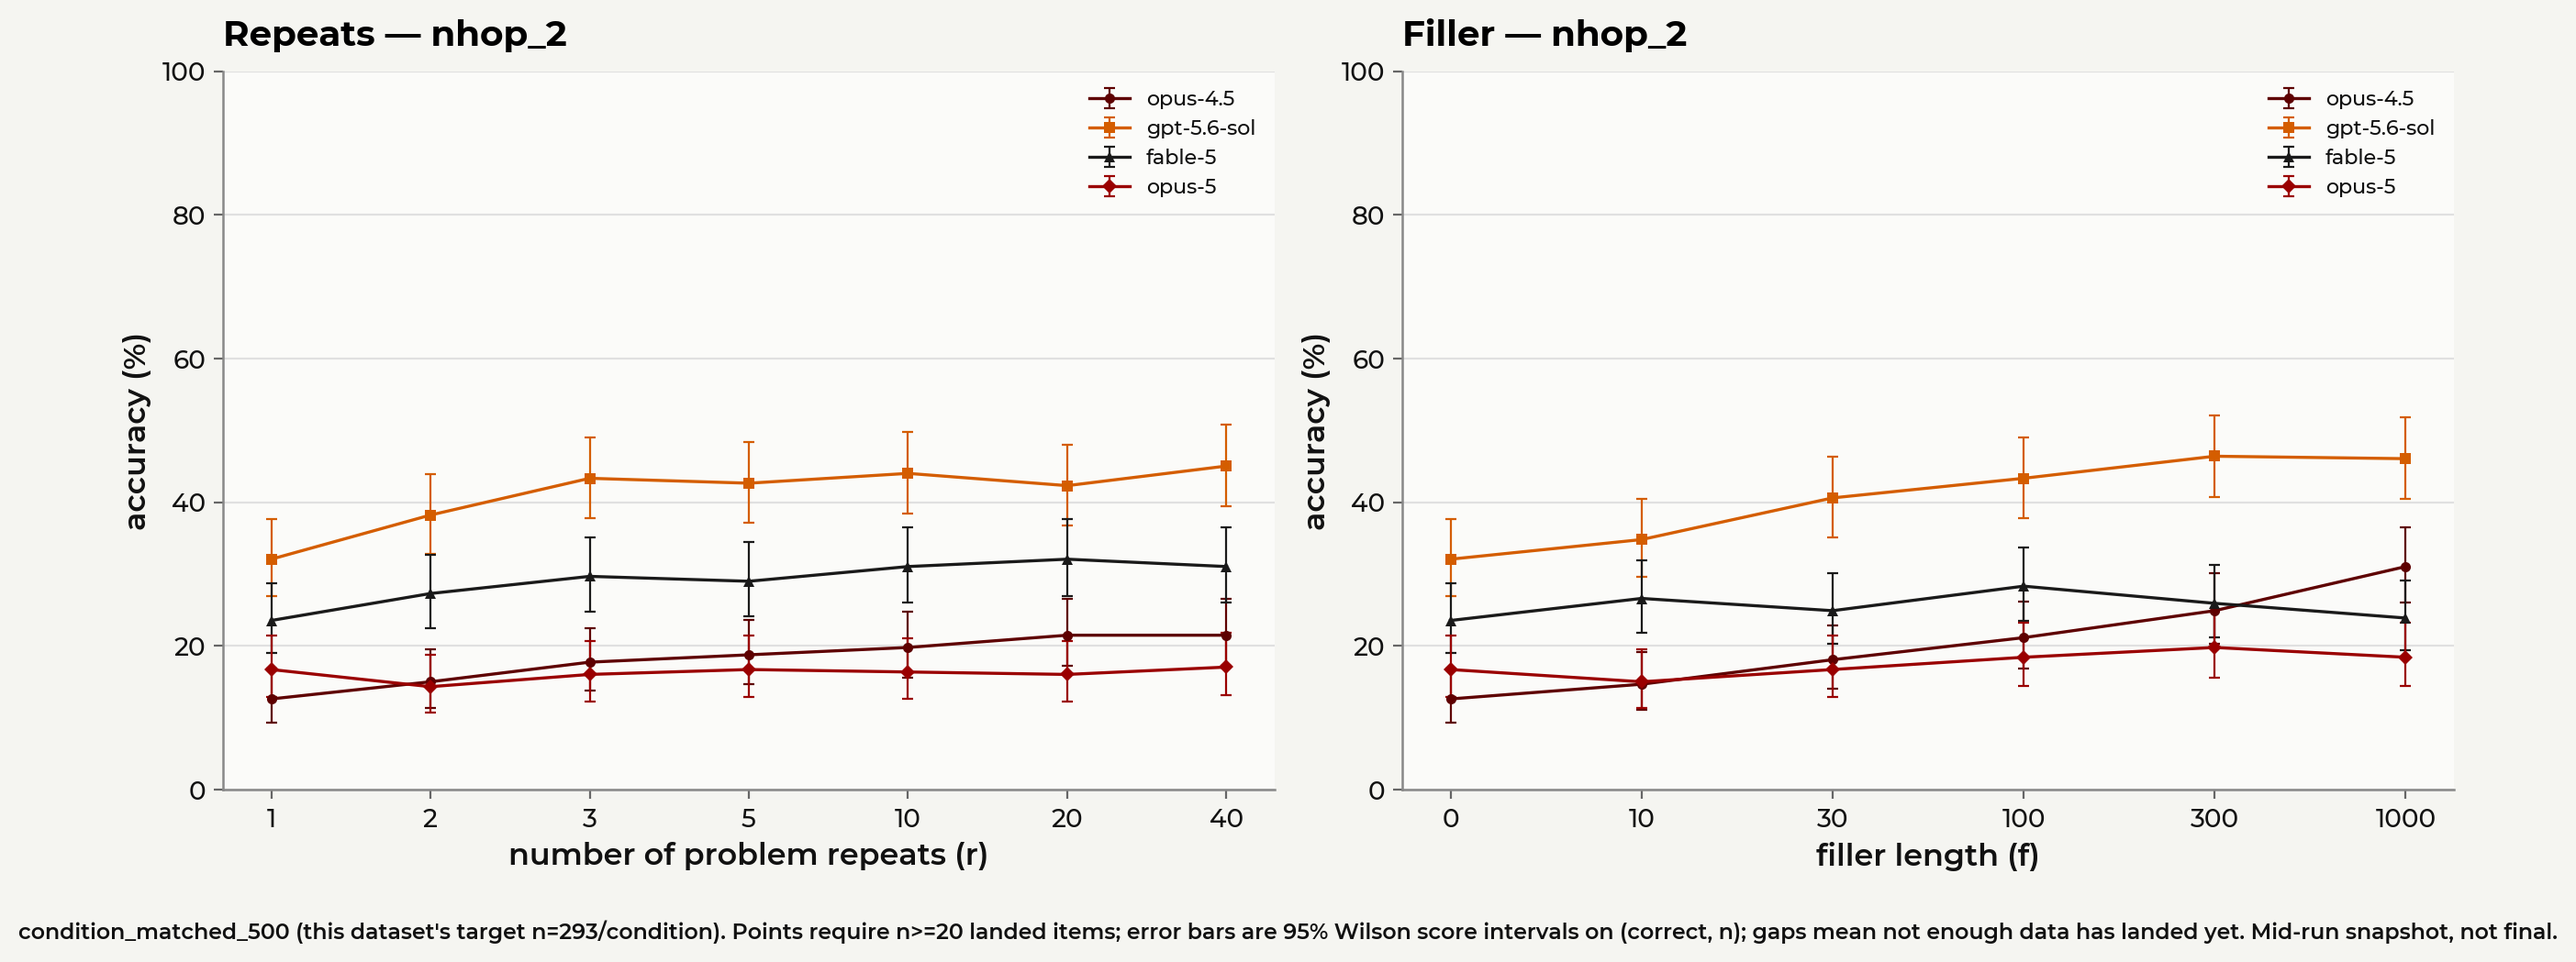
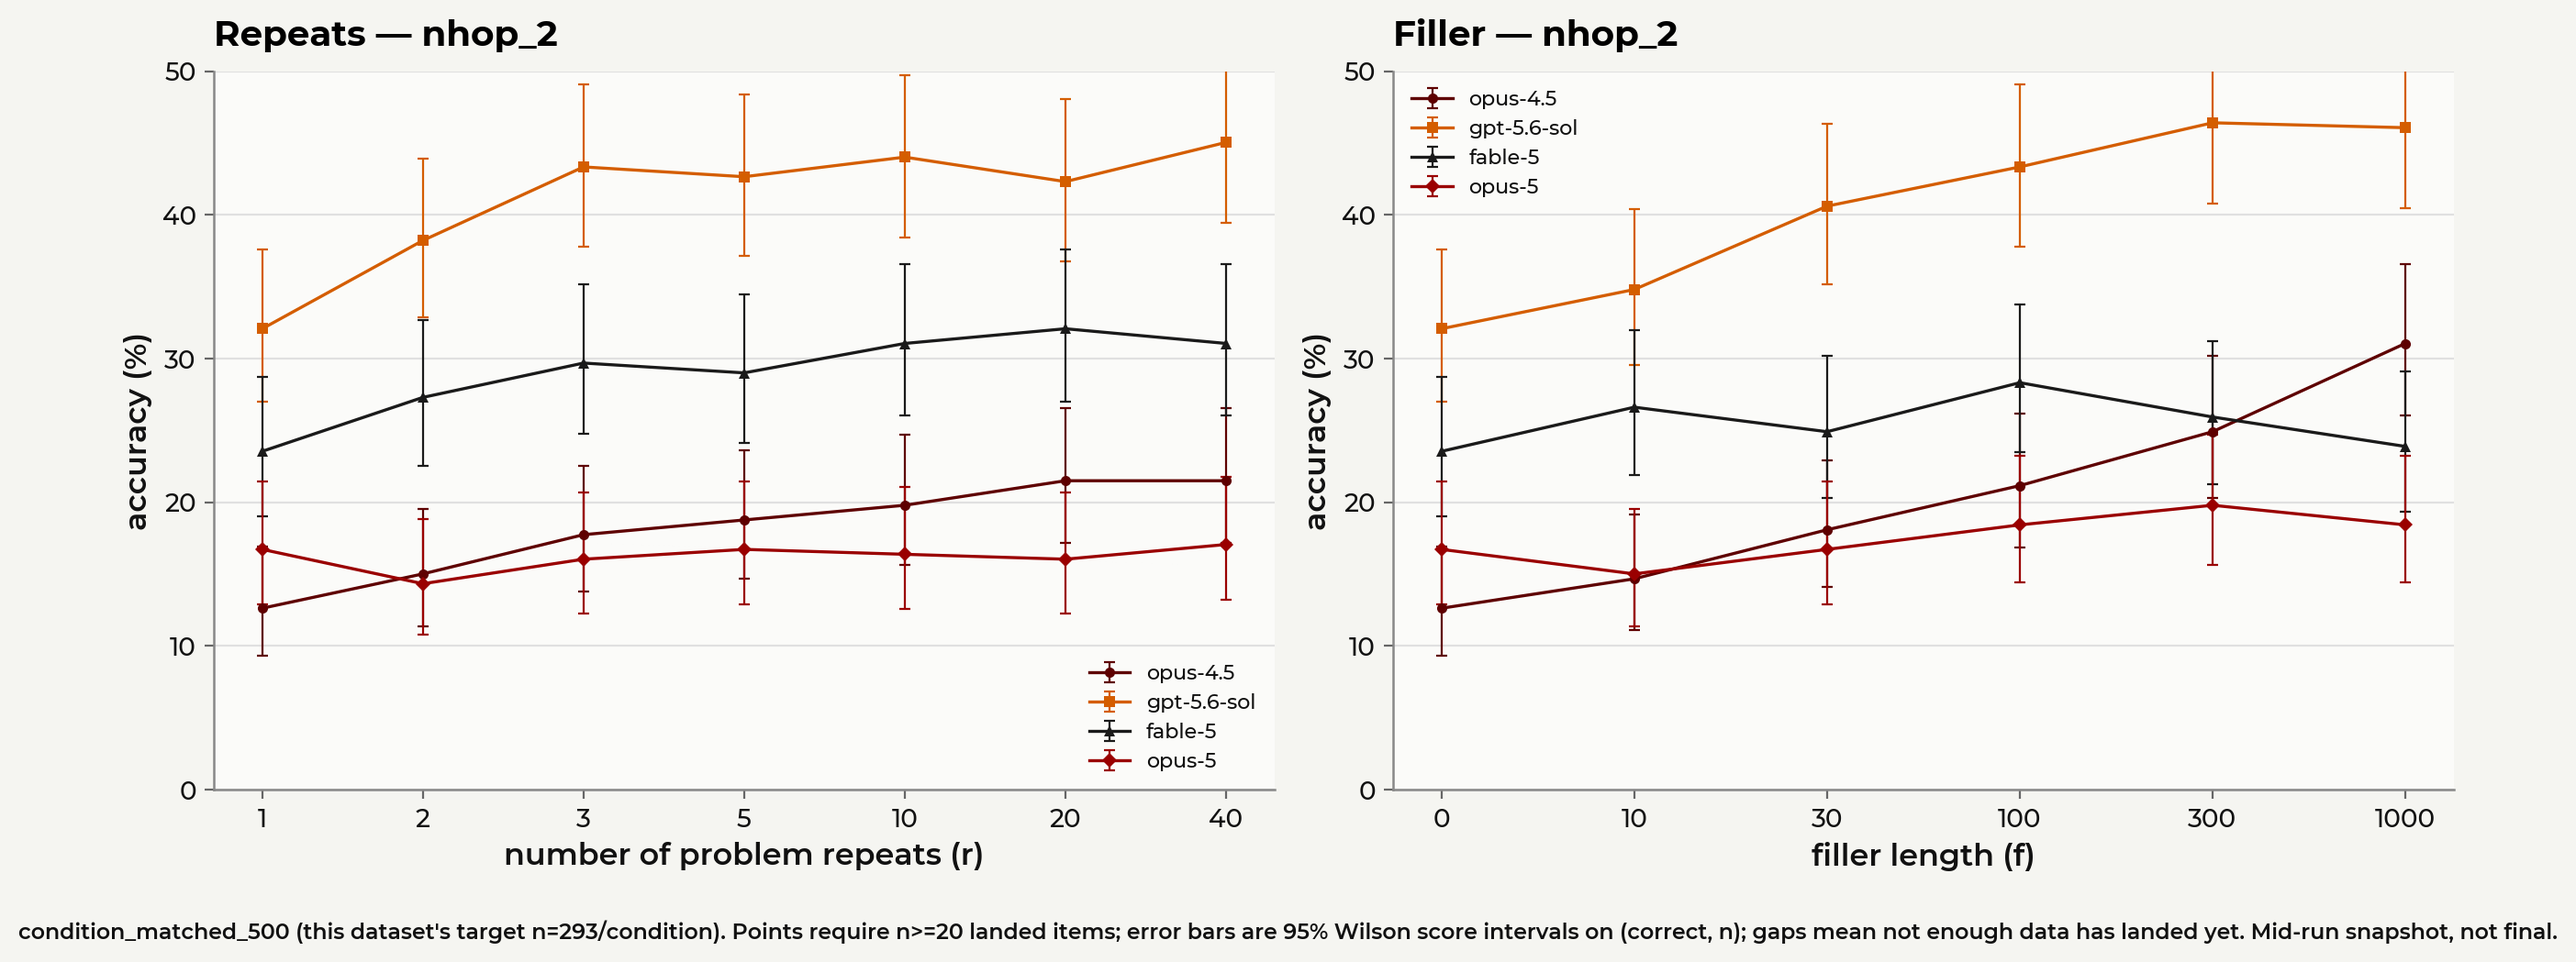
Use a 0-50 y-axis for multi-hop figures instead of 0-100
nhop_3/nhop_4 accuracy tops out well under 20% everywhere, so a
0-100 scale flattened real differences between models/conditions
into noise-looking wiggles near the axis floor.

diff --git a/presentation/plot_sanity_check_lines.py b/presentation/plot_sanity_check_lines.py
@@ -131,7 +131,10 @@ def plot_one_dataset(dataset: str, axes_spec: dict, counts: dict, min_n: int, mo
         ax.set_xlabel(xlabel)
         ax.set_ylabel("accuracy (%)")
         ax.set_title(f"{title} — {dataset}")
-        ax.set_ylim(0, 100)
+        # Multi-hop accuracy stays low everywhere (nhop_3/nhop_4 top out well under 20%) — a
+        # 0-100 scale flattens the real differences between conditions/models into noise-looking
+        # wiggles near the axis floor, so nhop datasets get a tighter 0-50 range instead.
+        ax.set_ylim(0, 50 if dataset.startswith("nhop") else 100)
         if ax.get_legend_handles_labels()[0]:
             ax.legend(ncol=1, fontsize=8)
 
